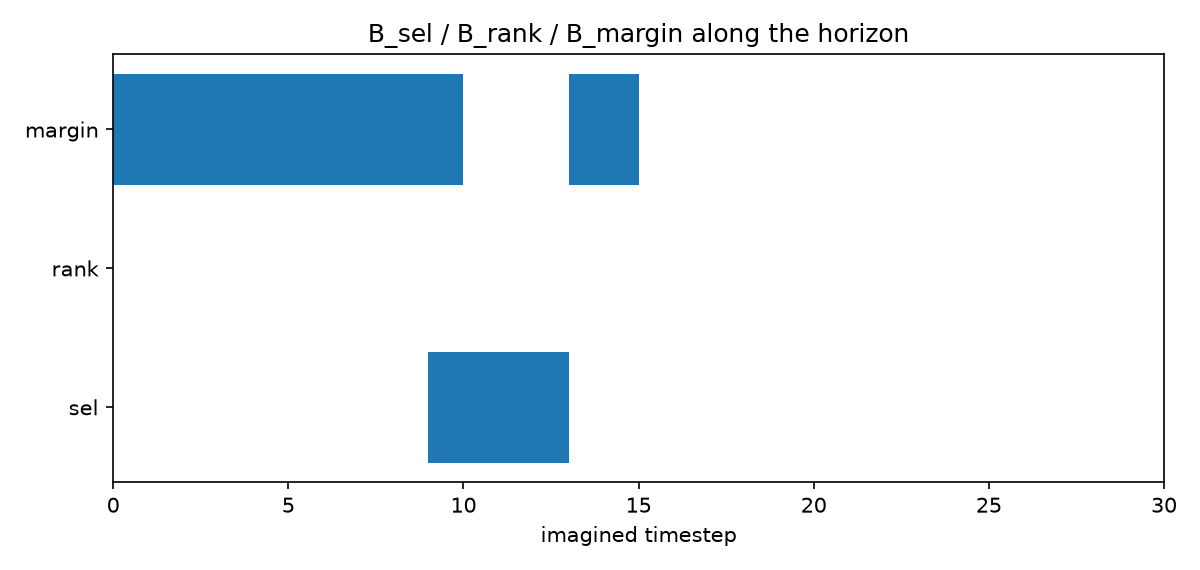
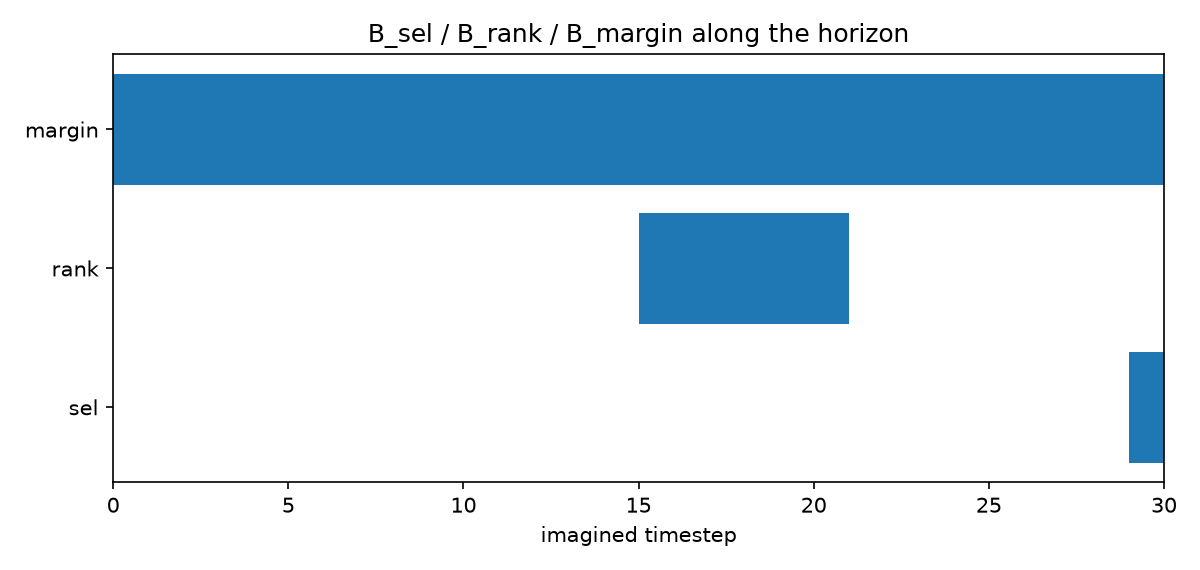
update results

diff --git a/results.md b/results.md
@@ -248,6 +248,40 @@ three objectives (already set in the task configs) — it's no longer just the
 `H_sel`/`H_margin` recommendation, the `H_rank` weakness was a measurement
 artifact, not a real limitation.
 
+### Cross-objective agreement (readme.md §5's planned comparison), `global_prior`, reference points
+
+For each task's reference decision point, ran `H_sel`/`H_rank`/`H_margin`
+independently with `global_prior` fill (`experiments/cross_objective_agreement.py`)
+and compared the resulting `B`s:
+
+| Task | `B_sel` | `B_rank` | `B_margin` | sel↔rank | sel↔margin | rank↔margin |
+|---|---|---|---|---|---|---|
+| Crafter | `[(29,29)]` | `[(15,16),(17,20)]` | `[(0,7),(8,15),(15,22),(22,29)]` | 0.00 | 0.03 | 0.20 |
+| Atari Pong | `[(7,7)]` | `[(7,7)]` | `[(0,0),(1,8),(9,16),(14,21),(22,29)]` | 1.00 | 0.03 | 0.03 |
+| DMC Walker Walk | `[]` | `[(28,29)]` | `[(0,7),(6,13),(14,21),(22,29)]` | — | — | 0.07 |
+
+Timelines: `images/{crafter,atari_pong,dmc_walker_walk}/cross_objective_agreement.png`.
+
+**Conclusions:**
+
+1. **Confirms readme.md §5's expected size ordering** (`|B_sel| ≤ |B_rank| ≤
+   |B_margin|`) on all three tasks — `H_margin` needs evidence covering
+   almost the entire 30-step horizon, `H_sel` needs at most one single-step
+   segment.
+2. **The three objectives mostly surface different evidence** (IoU 0.00–0.20
+   in 5 of 6 comparisons) — consistent with the 2026-07-14 finding that
+   `sel`/`rank`/`margin` answer genuinely different questions, not a nested
+   "bigger B contains the smaller ones" relationship.
+3. **Exception**: Pong's `B_sel` and `B_rank` are *identical* (`[(7,7)]`,
+   IoU=1.0) — at this point, whatever single segment justifies the top pick
+   also fully explains the entire ranking. A real, task-specific result, not
+   the general pattern (the other two tasks show near-zero sel↔rank overlap).
+4. **Walker Walk's `B_sel` is empty at its reference point** — this is one of
+   the ~20% of points where `global_prior`'s `H_sel` is already trivially
+   satisfied at `B=∅` (matches the earlier sanity-check flag for this same
+   point). Not a useful point for an `H_sel` case study on this task; a
+   different point from the 35-point sweep should be picked if one is needed.
+
 ### Open items (updated)
 
 - ~~Decision-point sampling isn't reproducible run-to-run~~ — **resolved**.
@@ -259,11 +293,14 @@ artifact, not a real limitation.
   **resolved**, see "Fill × objective grid, all 35 decision points per task" above.
 - ~~`D_rank`'s tie-breaking makes it structurally blind to candidate-independent
   fills like `global_prior`~~ — **resolved**, see conclusion 2 above.
+- ~~Cross-objective agreement hasn't been re-run against the new reference
+  points / `global_prior`~~ — **resolved**, see "Cross-objective agreement" above.
 - `H_full` and `counterfactual_reimagine` still haven't been exercised by any experiment
   script.
-- The §8 cost-accounting experiment hasn't been re-run against the new reference
-  points / `global_prior` yet (sanity-check and cross-baseline/objective
-  comparisons are now covered by the fill × objective grid above).
+- `cross_baseline_agreement.py`'s heatmap and the §8 cost-accounting experiment
+  haven't been re-run against the new reference points / `global_prior` yet
+  (the numeric substance of a baseline comparison is already covered by the
+  fill × objective grid above, just not as a heatmap image).
 - `shuffle`'s fill is unseeded (fresh RNG per call, see note above) — low
   priority (doesn't change conclusions) but worth seeding if exact numbers
   need to match run-to-run.